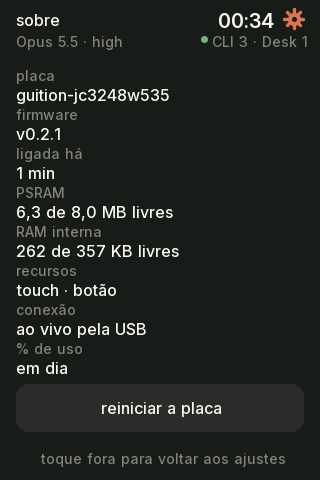
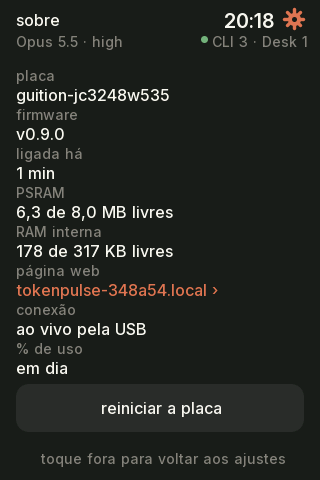
docs: capturas novas das placas USB, página web e alertas
Refeitas com dados fictícios (daemon em --demo) e as placas na v0.9.0: as
sessões e workspaces com uma cor por estado e "aprovar", o Sobre com a página
web, as pranchas da Guition, da ESP32-2432S028R (deitada) e das telas
deitadas, e a página de ajustes do SmallTV, que ainda não tinha logo, alertas
nem entrega. Novas: a tela do QR de instalação, a da página web e a página de
ajustes das placas USB, servidas localmente com um estado inventado. O README
e o site passam a contar os alertas, a página web das placas USB e as 4
posições da ESP32-2432S028R.

Changed region(s): [[0.0312, 0.5, 0.6875, 0.625], [0.6875, 0.0, 0.875, 0.0625], [0.125, 0.25, 0.2188, 0.3125]]

diff --git a/docs/index.html b/docs/index.html
@@ -262,14 +262,16 @@ flowchart LR
           <dt>Tela</dt><dd>3,5" IPS 320×480, AXS15231B por QSPI</dd>
           <dt>Toque</dt><dd>capacitivo, com o dedo</dd>
           <dt>Interface</dt><dd>todas as telas no layout grande, em pé ou deitada</dd>
+          <dt>Página web</dt><dd>ajustes, troca automática de tela, telas da volta e alertas em <code>http://&lt;nome&gt;.local</code>; o WiFi só liga quando pedido em Ajustes → Sobre</dd>
           <dt>Atualização</dt><dd>OTA pela USB em ~15 s</dd>
         </dl>
         <p class="note">A USB-C dela só passa dados num dos lados do plugue. Se a placa liga mas o Mac não a vê, gire o plugue.</p>
+        <img class="cfg" src="screenshots/usb-config.png" alt="Página de ajustes da Guition e da ESP32-2432S028R, com dados fictícios" loading="lazy">
       </div>
     </div>
 
     <div class="model" data-only="cyd-2432s028r">
-      <img src="screenshots/cyd-2432s028r.png" alt="ESP32-2432S028R: principal, sessões e Sobre com o botão de calibrar o toque" loading="lazy">
+      <img src="screenshots/cyd-2432s028r.png" alt="ESP32-2432S028R deitada: principal, sessões e Sobre com o botão de calibrar o toque" loading="lazy">
       <div>
         <h3>ESP32-2432S028R</h3>
         <dl>
@@ -277,7 +279,8 @@ flowchart LR
           <dt>Chip</dt><dd>ESP32-D0WD-V3: 4 MB de flash, sem PSRAM (a tela é desenhada em duas faixas)</dd>
           <dt>Tela</dt><dd>2,8" 240×320, ST7789</dd>
           <dt>Toque</dt><dd>resistivo XPT2046, com a caneta; calibração na primeira vez</dd>
-          <dt>Interface</dt><dd>todas as telas no layout médio, em pé ou deitada; LED RGB na cor da faixa</dd>
+          <dt>Interface</dt><dd>todas as telas no layout médio, em 4 posições (0°, 90°, 180°, 270°) para o cabo sair por qualquer lado; LED RGB na cor da faixa, vermelho piscando quando uma sessão pede aprovação</dd>
+          <dt>Página web</dt><dd>a mesma da Guition, com o WiFi ligado só quando pedido em Ajustes → Sobre</dd>
           <dt>Atualização</dt><dd>OTA pela USB (ponte CH340) em ~40 s</dd>
         </dl>
         <p class="note">Na primeira vez a tela pede quatro toques com a caneta, um em cada canto. Para refazer: Ajustes → Sobre → calibrar o toque.</p>

diff --git a/README.md b/README.md
@@ -28,7 +28,7 @@ fazendo e quanto esse uso custaria pela API. Tudo ao vivo, pela USB, sem Wi-Fi.
 | ![Modelos](docs/screenshots/04-modelos.png) | ![Detalhe do modelo](docs/screenshots/05-modelo.png) | ![Histórico](docs/screenshots/06-historico.png) |
 | **Modelos** usados hoje e a fatia de cada um. | **Detalhe do modelo**: entrada, saída e cache, custo equivalente na API e os projetos que mais usaram. | **Histórico** de 14 dias; toque numa barra para ver o dia. |
 | ![Ajustes](docs/screenshots/07-ajustes.png) | ![Trocar de org](docs/screenshots/08-org.png) | ![Sobre](docs/screenshots/09-sobre.png) |
-| **Ajustes** pela engrenagem: brilho, escurecer quando parada, tema (segue o macOS), tela em pé ou deitada, ocultar custo. | **Trocar de org** pelo nome no topo, com o último % de cada uma. Usa o [claude-swap](https://github.com/realiti4/claude-swap) e pede dois toques, porque troca o login de todas as sessões do Mac. | **Sobre**: placa, firmware, recursos da placa, memória, conexão e reiniciar. |
+| **Ajustes** pela engrenagem: brilho, escurecer quando parada, tema (segue o macOS), tela em pé ou deitada, ocultar custo. | **Trocar de org** pelo nome no topo, com o último % de cada uma. Usa o [claude-swap](https://github.com/realiti4/claude-swap) e pede dois toques, porque troca o login de todas as sessões do Mac. | **Sobre**: placa, firmware, memória, conexão, reiniciar e o endereço da página web (toque para abrir o QR). |
 
 <p align="center"><img src="docs/screenshots/10-esgotado.png" alt="Janela de 5 h esgotada, com o botão para trocar de org" width="32%"></p>
 
@@ -41,9 +41,31 @@ em 3 colunas e o detalhe do modelo com os projetos ao lado.
 <p align="center"><img src="docs/screenshots/deitada.png" alt="As telas deitadas: principal com o anel à esquerda, sessões em 3 colunas e o detalhe do modelo" width="100%"></p>
 
 **Na ESP32-2432S028R.** A placa de 2,8" (240×320, touch resistivo) roda as mesmas telas num layout
-menor. No Sobre fica o botão para recalibrar o toque.
+menor, em 4 posições (Ajustes → Tela: 0°, 90°, 180°, 270°), para o cabo USB sair por qualquer lado. No Sobre fica o
+botão para recalibrar o toque.
 
-<p align="center"><img src="docs/screenshots/cyd-2432s028r.png" alt="ESP32-2432S028R: principal, sessões e Sobre com o botão de calibrar o toque" width="75%"></p>
+<p align="center"><img src="docs/screenshots/cyd-2432s028r.png" alt="ESP32-2432S028R deitada: principal, sessões e Sobre com o botão de calibrar o toque" width="100%"></p>
+
+**Alertas.** Quando uma sessão passa a pedir aprovação, a tela abre o workspace dela e o brilho pulsa por 20 s;
+nas placas com LED ele pisca vermelho enquanto houver sessão para aprovar. Cada estado de sessão tem a sua cor:
+verde trabalhando, vermelho aprovar, amarelo sua vez.
+
+**Página web.** Guition e ESP32-2432S028R têm uma página de ajustes com mais opções que a tela: troca automática
+de tela depois de N segundos sem toque, quais telas entram na volta, o alerta de aprovar, o nome na rede, as
+versões do firmware e do agente, atualização guiada e "Preparar para entrega". Os dados continuam pelo cabo: o
+WiFi só liga quando você pede em Ajustes → Sobre → página web, que mostra o QR para o celular entrar no WiFi da
+placa e escolher a rede da casa. Depois disso a placa entra nessa rede ao ligar, e a página fica em
+`http://<nome>.local`.
+
+<table><tr>
+<td width="33%"><img src="docs/screenshots/12-pagina-web.png" alt="Tela da página web: QR code do endereço .local"></td>
+<td width="33%"><img src="docs/screenshots/11-instalar.png" alt="Tela de espera de uma placa recém-recebida: QR code da instalação no Mac"></td>
+<td width="33%"><img src="docs/screenshots/usb-config.png" alt="Página de ajustes das placas USB, com dados fictícios"></td>
+</tr><tr>
+<td><b>Página web</b> no Sobre: o QR do endereço <code>.local</code>, ou do WiFi da placa quando ainda não há rede.</td>
+<td><b>Placa recém-recebida</b>: sem nenhum daemon no Mac, a tela de espera mostra o QR da instalação.</td>
+<td><b>Ajustes pela web</b>, com dados fictícios.</td>
+</tr></table>
 
 Também tem animações com mola nas barras e no anel, halo na ponta do progresso, transições deslizando entre
 as telas, modo noite (22h–7h) e uma tela de diagnóstico quando o Mac some ("cabo USB / daemon / dados").
